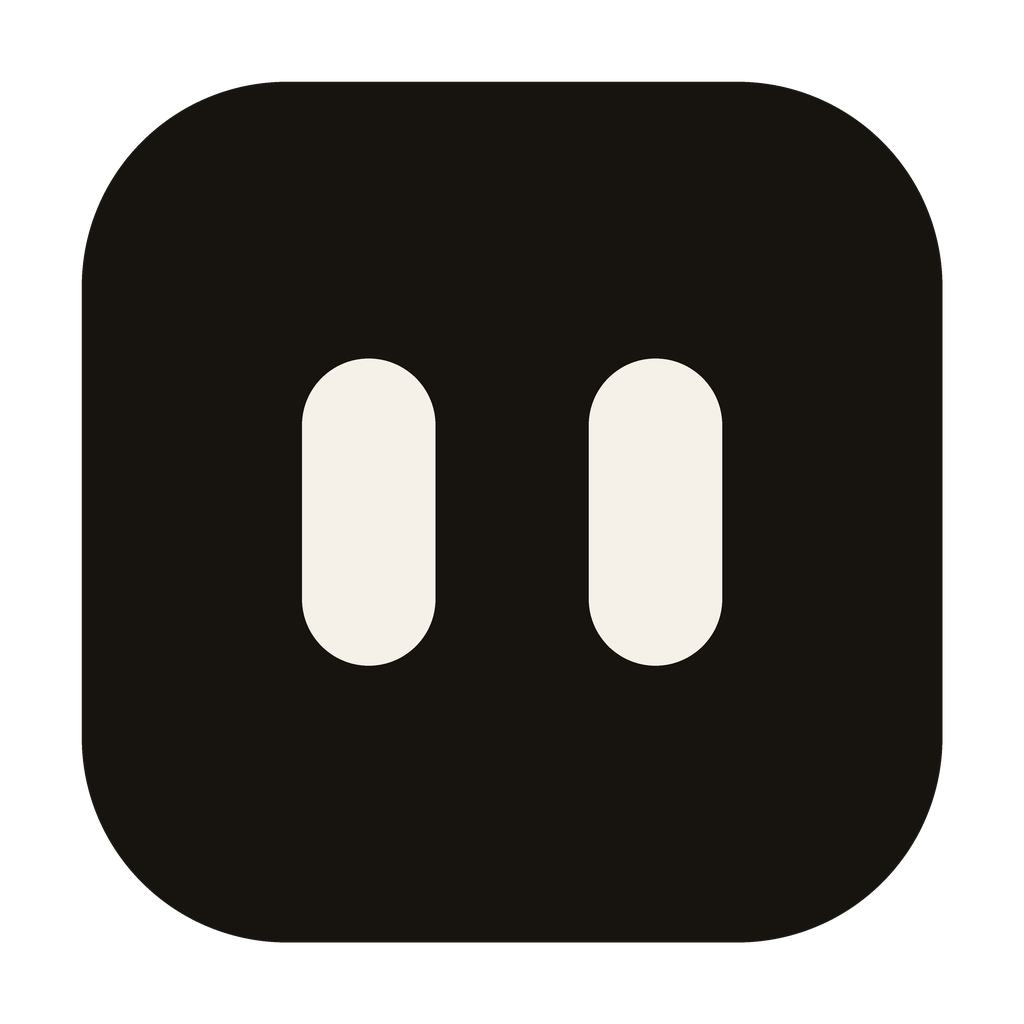
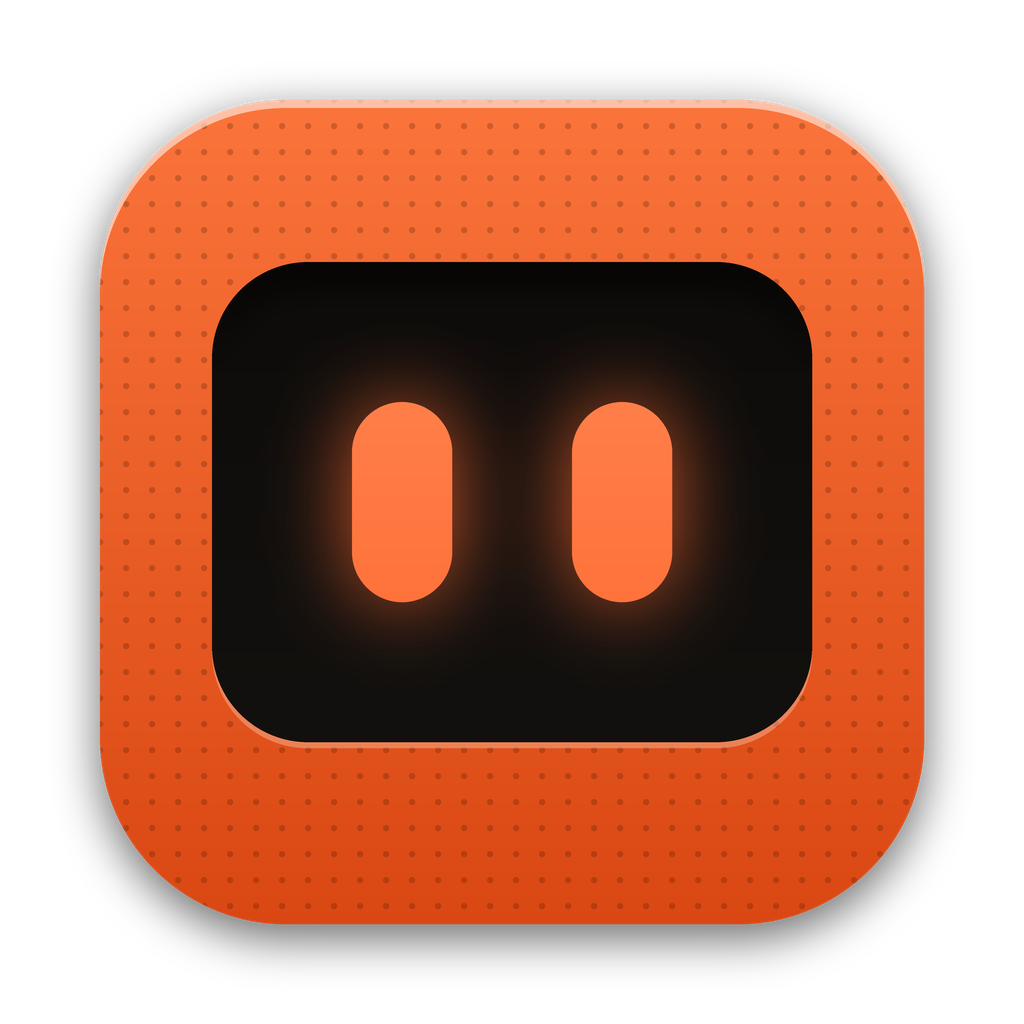
Escritorio: el ícono nuevo (placa naranja con trama, pantalla hundida, ojos que brillan), la carita monocroma en la barra de la Mac y la bienvenida en el panel (se abre solo para sumarlo)
Claude-Session: https://claude.ai/code/session_019W2t1DXEjRkVF93HZvUJi3

diff --git a/escritorio/ui/panel.js b/escritorio/ui/panel.js
@@ -131,6 +131,8 @@ async function cargarListas() {
     return b;
   };
   $('pestanas').replaceChildren(tecla('Hoy', null), ...ver.map((l) => tecla(l.nombre, l.id, l.items.filter((i) => !i.hecho).length)));
+  // Sin cuenta todavía no hay listas: el selector con "Hoy" solo no hace falta.
+  $('pestanas').hidden = ver.length === 0;
   const l = ver.find((x) => x.id === abierta);
   if (!l) abierta = null;
   $('canal-hoy').hidden = !!l;
@@ -169,6 +171,27 @@ $('form-item').addEventListener('submit', async (e) => {
   }
   if (id) await invoke('lista', { accion: 'agregar', lista: id, texto });
   cargarListas();
+});
+
+// Sumarlo a la cuenta desde el panel (con Telegram), como el botón de la cara.
+$('p-entrar').addEventListener('click', () => {
+  $('p-entrar').hidden = true;
+  $('p-paso').textContent = 'Abriendo Telegram';
+  invoke('entrar');
+});
+$('p-codigo').addEventListener('submit', (e) => {
+  e.preventDefault();
+  invoke('codigo', { codigo: $('p-codigo-texto').value });
+  $('p-codigo').hidden = true;
+  $('p-paso').textContent = 'Revisando';
+});
+listen('entrada', ({ payload: p }) => {
+  $('p-codigo').hidden = p.paso !== 'codigo';
+  $('p-entrar').hidden = p.paso === 'telegram' || p.paso === 'codigo';
+  $('p-paso').textContent = { telegram: 'Seguí en Telegram', codigo: 'El código del bot', listo: 'Listo', error: 'No salió, probá de nuevo' }[p.paso] ?? '';
+  if (p.paso === 'codigo') $('p-codigo-texto').focus();
+  if (p.paso === 'error') $('p-entrar').hidden = false;
+  if (p.paso === 'listo') setTimeout(() => { cargarDia(); cargarListas(); cargarRobots(); }, 800);
 });
 
 // La charla: se guarda en esta compu (las últimas 60).

diff --git a/escritorio/ui/panel.html b/escritorio/ui/panel.html
@@ -32,7 +32,14 @@
     <div class="pestanas" id="pestanas" role="tablist"></div>
     <div class="canal" id="canal-hoy">
       <ul class="visor dia" id="dia"></ul>
-      <p class="visor vacio grabado" id="sin-sumar" hidden>Sumalo a tu cuenta</p>
+      <div class="visor bienvenida" id="sin-sumar" hidden>
+        <span class="grabado">Tu día, tus listas, tus robots</span>
+        <button type="button" class="tecla naranja grande" id="p-entrar">Sumalo con Telegram</button>
+        <form id="p-codigo" class="visor fila" hidden>
+          <input id="p-codigo-texto" inputmode="numeric" autocomplete="one-time-code" maxlength="8" placeholder="Código">
+        </form>
+        <span class="grabado" id="p-paso"></span>
+      </div>
       <p class="visor vacio grabado" id="nada-hoy" hidden>Nada más por hoy</p>
     </div>
     <div class="bandeja canal" id="bandeja" hidden>

diff --git a/escritorio/ui/panel.css b/escritorio/ui/panel.css
@@ -187,6 +187,10 @@ h1 {
   text-align: left;
 }
 .dia .mas:hover { color: var(--papel); }
+.bienvenida { display: grid; justify-items: center; gap: 12px; padding: 18px 14px; text-align: center; }
+.tecla.grande { height: 46px; padding: 0 20px; font-size: 12px; }
+.bienvenida .fila { width: 160px; padding: 0 12px; }
+.bienvenida .fila input { text-align: center; color: var(--brasa); font-size: 18px; letter-spacing: 0.2em; }
 .vacio { margin: 0; padding: 16px 12px; text-align: center; }
 
 /* ---- Listas: la placa naranja anodizada ---- */

diff --git a/escritorio/src-tauri/src/main.rs b/escritorio/src-tauri/src/main.rs
@@ -396,6 +396,15 @@ fn main() {
             red.clone().mantener(nucleo.clone());
             app.manage(App { nucleo, red, carpeta, entrada: Mutex::new(None) });
             mirar_globos(app.handle().clone());
+            // La primera vez (sin sumar a una cuenta), el panel se abre solo para sumarlo.
+            if !carpeta_app(app).join("sesion").exists() {
+                let h = app.handle().clone();
+                std::thread::spawn(move || {
+                    std::thread::sleep(std::time::Duration::from_millis(1500));
+                    let h2 = h.clone();
+                    let _ = h.run_on_main_thread(move || abrir_panel(&h2));
+                });
+            }
             app.manage(sentidos::Movida::default());
             let a = app.state::<App>();
             sentidos::arrancar(app.handle().clone(), a.nucleo.clone(), a.carpeta.clone());
@@ -426,6 +435,13 @@ fn main() {
             let sep = PredefinedMenuItem::separator(app)?;
             let menu = Menu::with_items(app, &[&mostrar, &hablar, &consola, &sumar, &sep, &tamano, &arranque, &PredefinedMenuItem::separator(app)?, &salir])?;
             let mut bandeja = TrayIconBuilder::with_id("sintetica").menu(&menu).tooltip("Sintética");
+            // En la Mac, la carita monocroma de la barra (se pinta sola en claro u oscuro);
+            // en Windows, el ícono de la app.
+            #[cfg(target_os = "macos")]
+            {
+                bandeja = bandeja.icon(tauri::image::Image::from_bytes(include_bytes!("../bandeja.png"))?).icon_as_template(true);
+            }
+            #[cfg(not(target_os = "macos"))]
             if let Some(i) = app.default_window_icon() {
                 bandeja = bandeja.icon(i.clone());
             }
